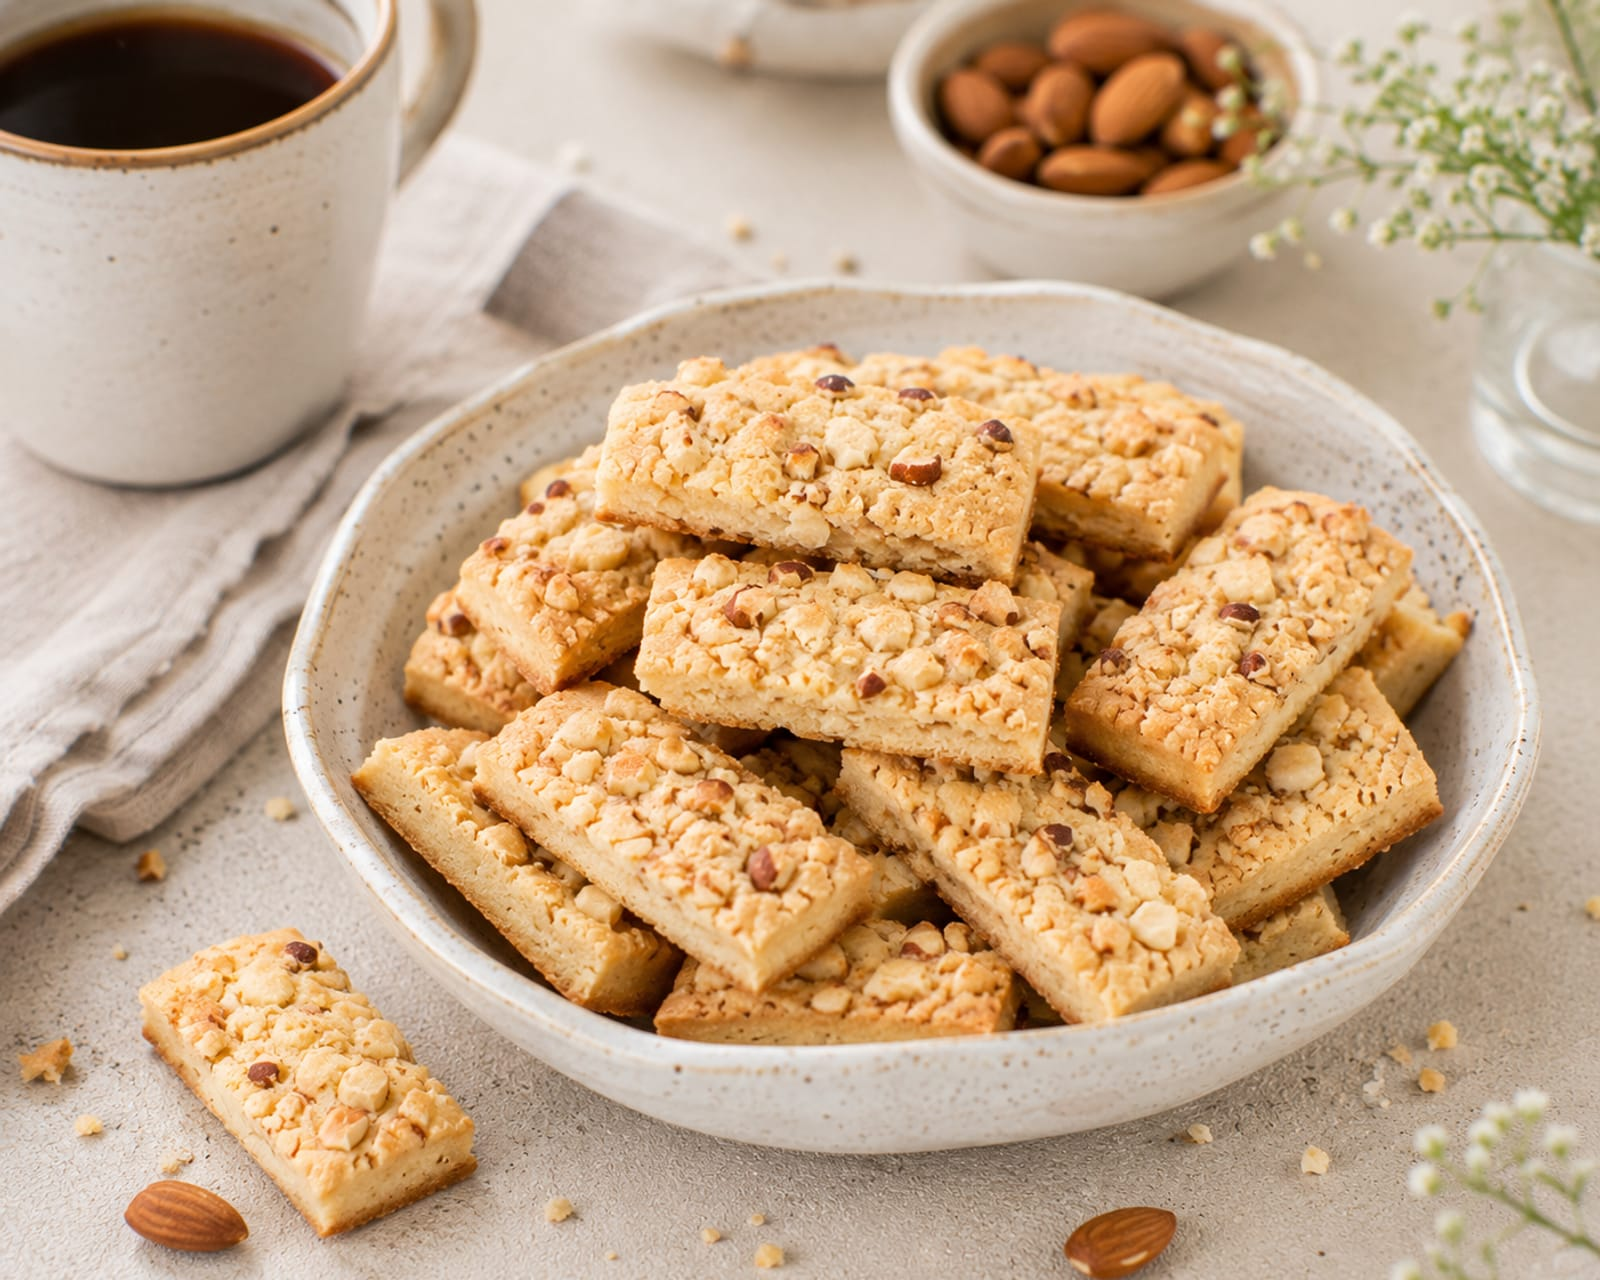
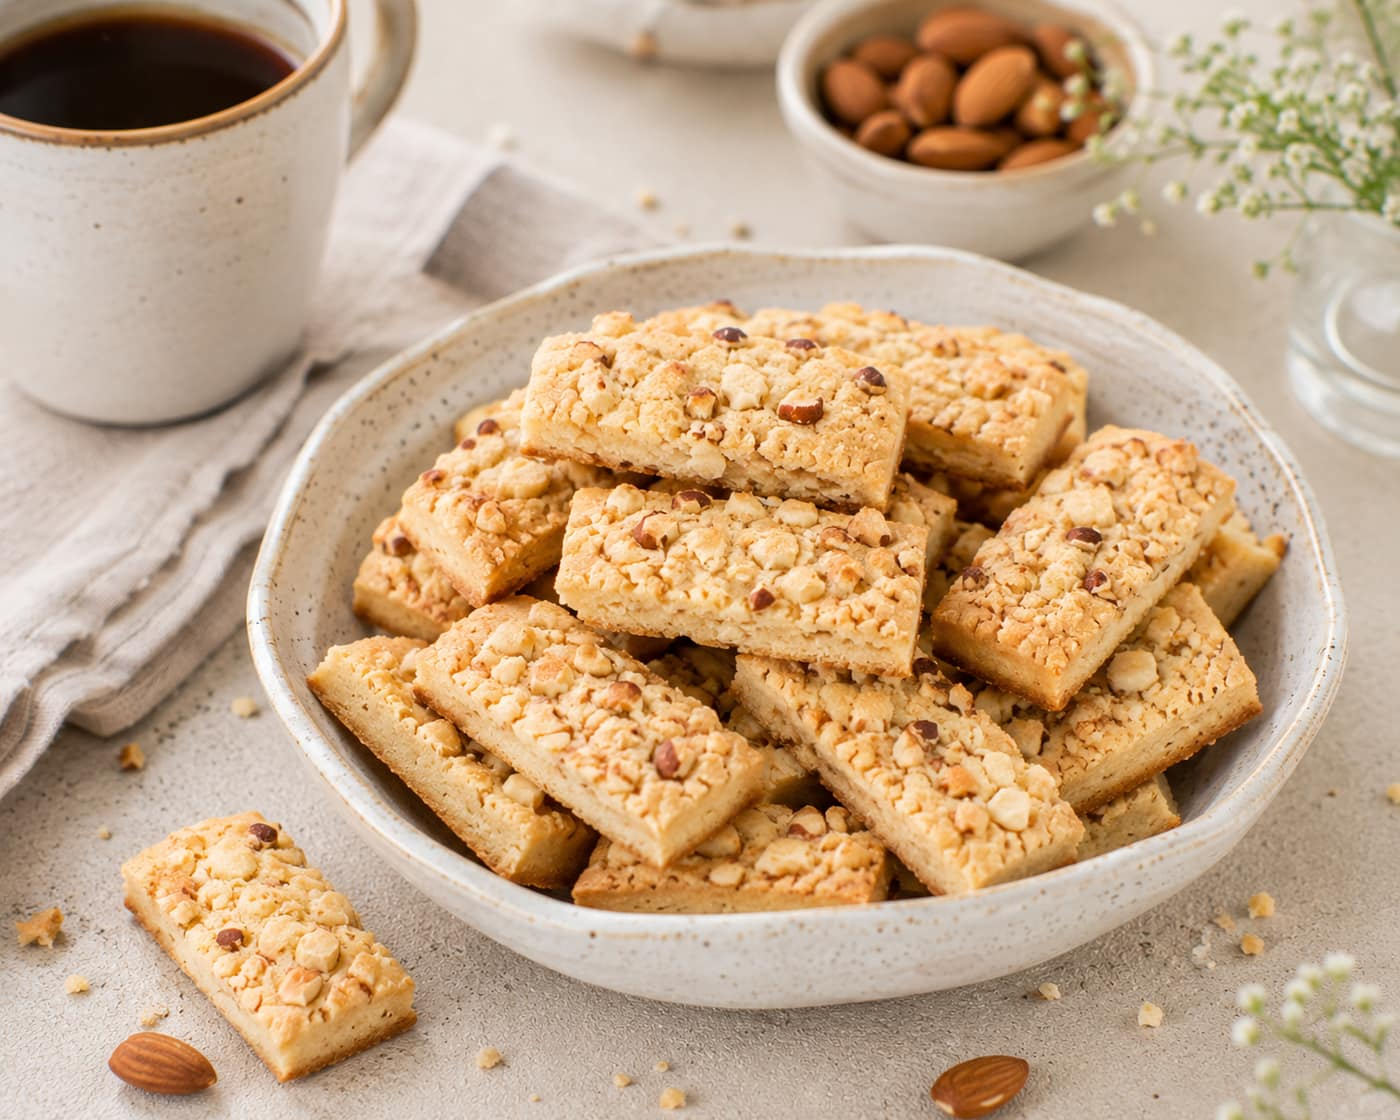
SEO-genomgång: bildprestanda för LCP och bandbredd
Fynd från fullständig crawl-audit av alla 16 publika sidor (metadata,
schema-graf, länkar, sitemap alla gröna — enda bristen var bildladdning):

- ImageSlot: loading=lazy + decoding=async på alla bilder; ny
  priority-prop (eager + fetchPriority=high) för sidans LCP-bild
- Hero-bilden markerad priority på startsida/områdessidor; produktsidans
  huvudbild likaså
- hero.jpg omkomprimerad 250 -> 163 kB

Claude-Session: https://claude.ai/code/session_01HakHc2wiuohRsutJPCjm87

diff --git a/src/components/ImageSlot.tsx b/src/components/ImageSlot.tsx
@@ -11,12 +11,15 @@ export function ImageSlot({
   label,
   src,
   circle = false,
+  priority = false,
 }: {
   /** Beskrivning för skärmläsare/alt-text, t.ex. "Kolasnittar — närbild". */
   label: string;
   /** Sökväg till riktig bild (frivillig). Trasig/saknad bild faller tillbaka till platshållaren. */
   src?: string;
   circle?: boolean;
+  /** true för sidans LCP-bild (hero): eager + hög fetch-prioritet. Övriga lazy-laddas. */
+  priority?: boolean;
 }) {
   const [broken, setBroken] = useState(false);
   const imgRef = useRef<HTMLImageElement>(null);
@@ -37,6 +40,9 @@ export function ImageSlot({
         ref={imgRef}
         src={src}
         alt={label}
+        loading={priority ? "eager" : "lazy"}
+        decoding="async"
+        fetchPriority={priority ? "high" : undefined}
         onError={() => setBroken(true)}
         style={{
           width: "100%",

diff --git a/src/app/(site)/kakor/[slug]/page.tsx b/src/app/(site)/kakor/[slug]/page.tsx
@@ -99,7 +99,7 @@ export default async function ProductPage({ params }: Props) {
       <div className="container-medium" style={{ padding: "24px 24px 64px" }}>
         <div className="two-col" style={{ display: "grid", gap: 40, alignItems: "start" }}>
           <div style={{ minHeight: 340, borderRadius: 8, overflow: "hidden" }}>
-            <ImageSlot label={`${product.name} — närbild`} src={product.imageRef || undefined} />
+            <ImageSlot label={`${product.name} — närbild`} src={product.imageRef || undefined} priority />
           </div>
           <div style={{ display: "flex", flexDirection: "column", gap: 18 }}>
             <div>

diff --git a/src/app/(site)/[omrade]/page.tsx b/src/app/(site)/[omrade]/page.tsx
@@ -86,7 +86,11 @@ export default async function AreaPage({ params }: Props) {
           </div>
         </div>
         <div style={{ minHeight: 280, borderRadius: 8, overflow: "hidden" }}>
-          <ImageSlot label="Skål med nybakade mandelkubb bredvid en kopp kaffe" src="/images/hero.jpg" />
+          <ImageSlot
+            label="Skål med nybakade mandelkubb bredvid en kopp kaffe"
+            src="/images/hero.jpg"
+            priority
+          />
         </div>
       </section>
 

diff --git a/src/app/(site)/page.tsx b/src/app/(site)/page.tsx
@@ -109,7 +109,11 @@ export default async function HomePage() {
           </div>
         </div>
         <div style={{ minHeight: 320 }}>
-          <ImageSlot label="Skål med nybakade mandelkubb bredvid en kopp kaffe" src="/images/hero.jpg" />
+          <ImageSlot
+            label="Skål med nybakade mandelkubb bredvid en kopp kaffe"
+            src="/images/hero.jpg"
+            priority
+          />
         </div>
       </section>
 
